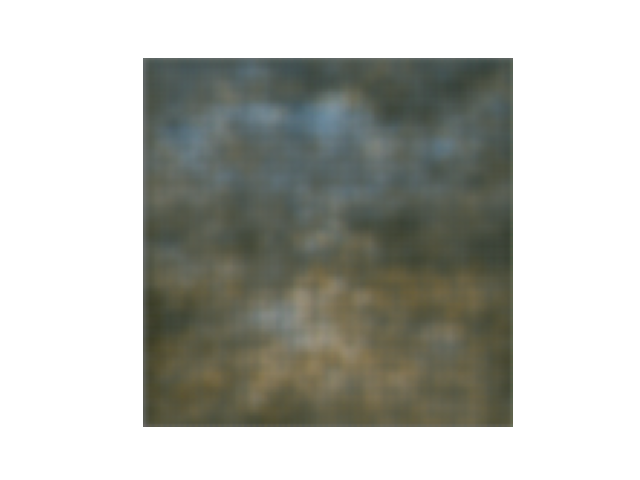
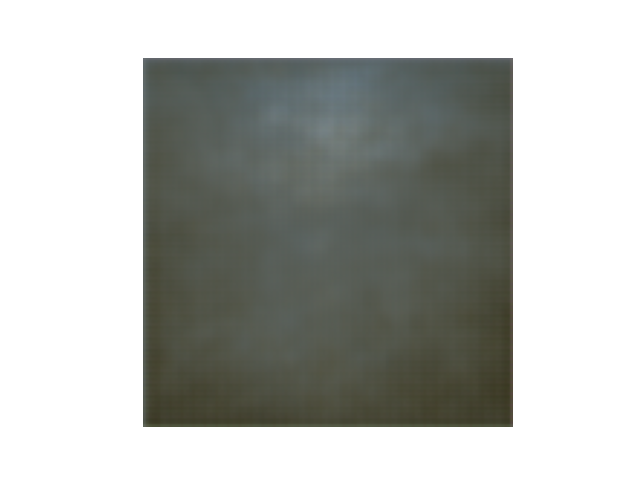
lab07

diff --git a/Lab07/Autoencoder.py b/Lab07/Autoencoder.py
@@ -2,6 +2,8 @@ import tensorflow as tf
 from tensorflow.keras import layers, models
 import numpy as np
 import os
+import matplotlib
+matplotlib.use('Agg')  # Użycie backendu 'Agg' dla zapisu obrazów
 
 # Ścieżka do katalogu z danymi
 DATA_DIR = "C:/Users/Adrian/Desktop/KNO_repo/Lab07/photos"
@@ -10,7 +12,7 @@ DATA_DIR = "C:/Users/Adrian/Desktop/KNO_repo/Lab07/photos"
 IMG_SIZE = (128, 128)
 BATCH_SIZE = 32
 
-# Wczytanie danych z katalogu
+# wczytywanie danych
 dataset = tf.keras.preprocessing.image_dataset_from_directory(
     DATA_DIR,
     image_size=IMG_SIZE,
@@ -29,8 +31,8 @@ augmentation = tf.keras.Sequential([
 
 dataset = dataset.map(lambda x: (augmentation(x), x))
 
-# Definicja autoenkodera
-latent_dim = 48
+# przestrzeń latentna - length of my sequences https://blog.keras.io/building-autoencoders-in-keras.html
+latent_dim = 2
 
 # Encoder
 encoder = models.Sequential([
@@ -41,15 +43,17 @@ encoder = models.Sequential([
     layers.Dense(latent_dim)
 ])
 
-# Decoder
+# Decoder - dodałem więcej warstw konwolucyjnych próbująć uzyskać lepszy obrazek
 decoder = models.Sequential([
     layers.Input(shape=(latent_dim,)),
-    layers.Dense(32 * 32 * 64, activation='relu'),
-    layers.Reshape((32, 32, 64)),
+    layers.Dense(16 * 16 * 128, activation='relu'),
+    layers.Reshape((16, 16, 128)),
+    layers.Conv2DTranspose(128, (3, 3), activation='relu', strides=2, padding='same'),
     layers.Conv2DTranspose(64, (3, 3), activation='relu', strides=2, padding='same'),
     layers.Conv2DTranspose(32, (3, 3), activation='relu', strides=2, padding='same'),
     layers.Conv2DTranspose(3, (3, 3), activation='sigmoid', padding='same')
 ])
+
 
 # Autoencoder
 inputs = layers.Input(shape=(128, 128, 3))
@@ -61,7 +65,19 @@ autoencoder = models.Model(inputs, decoded)
 autoencoder.compile(optimizer='adam', loss='mse')
 
 # Trening
-autoencoder.fit(dataset, epochs=20)
+autoencoder.fit(dataset, epochs=50)
+
+# Generowanie obrazka z latent space (autoencoder bez transfer learning)
+latent_vector = np.array([[0.5, -0.5]])  # Losowe wartości w przestrzeni latentnej
+generated_image = decoder.predict(latent_vector)
+
+# Zapis obrazka wygenerowanego przez autoenkoder
+import matplotlib.pyplot as plt
+plt.imshow(generated_image[0])
+plt.axis('off')
+plt.title("Generated Image - Autoencoder")
+plt.savefig("generated_image_autoencoder.png")  # Zapis obrazka
+plt.show()
 
 # Zadanie dodatkowe: Transfer Learning
 base_model = tf.keras.applications.MobileNetV2(input_shape=(128, 128, 3), include_top=False, weights='imagenet')
@@ -82,16 +98,15 @@ transfer_autoencoder = models.Model(transfer_inputs, transfer_decoded)
 transfer_autoencoder.compile(optimizer='adam', loss='mse')
 
 # Trening autoenkodera z transfer learning
-transfer_autoencoder.fit(dataset, epochs=20)
+transfer_autoencoder.fit(dataset, epochs=50)
 
-# Generowanie obrazka z latent space
-latent_vector = np.random.uniform(-1, 1, (1, 48))  # Losowe wartości w przestrzeni latentnej
+# Generowanie obrazka z latent space (autoencoder z transfer learning)
+transfer_latent_vector = np.array([[0.5, -0.5]])  # Losowe wartości w przestrzeni latentnej
+transfer_generated_image = decoder.predict(transfer_latent_vector)
 
-  # Współrzędne w przestrzeni latentnej
-generated_image = decoder.predict(latent_vector)
-
-# Zapis wygenerowanego obrazka
-import matplotlib.pyplot as plt
-plt.imshow(generated_image[0])
+# Zapis obrazka wygenerowanego przez autoenkoder z transfer learning
+plt.imshow(transfer_generated_image[0])
 plt.axis('off')
-plt.savefig("generated_image.png")
+plt.title("Generated Image - Transfer Learning")
+plt.savefig("generated_image_transfer_learning.png")
+plt.show()
